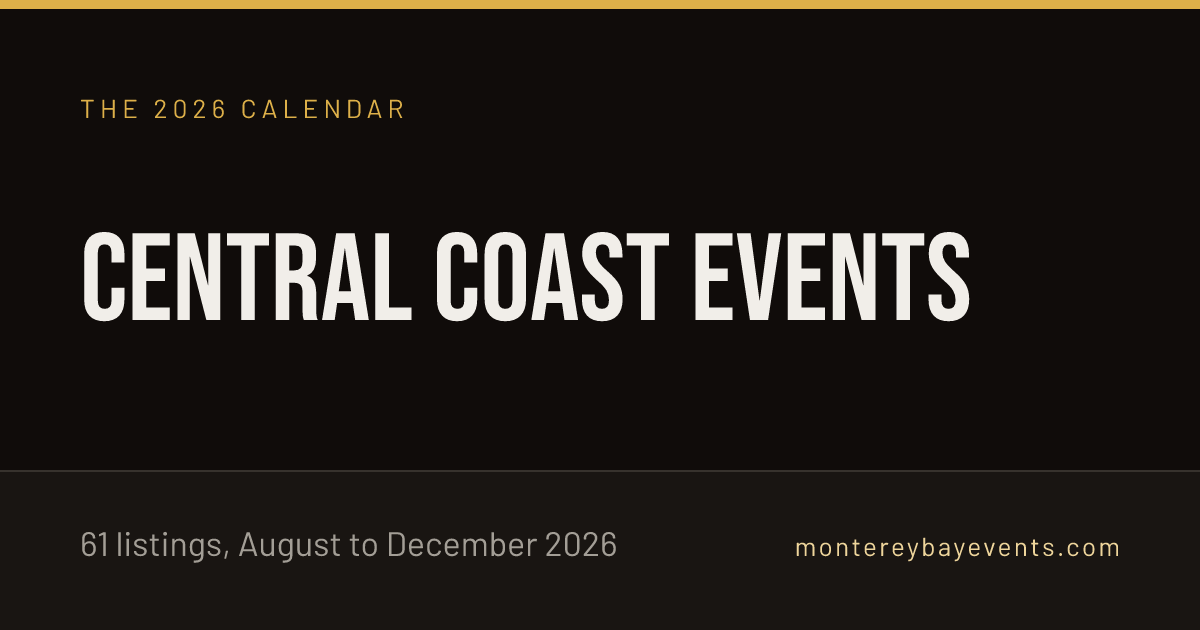
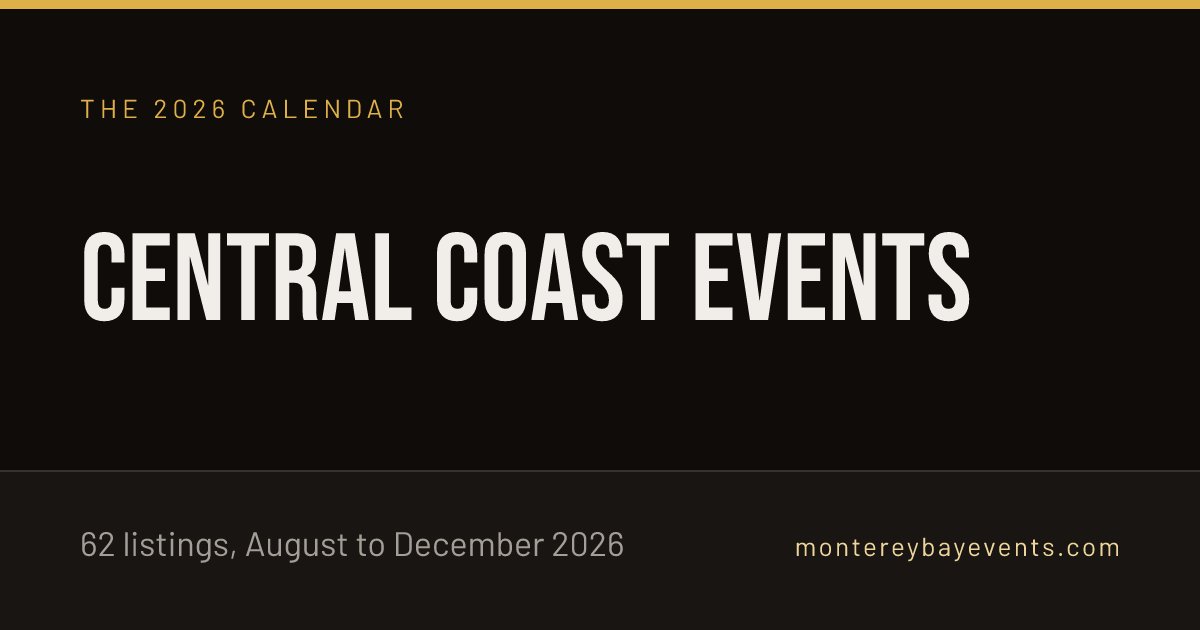
v2.P — Aria Women's Choir: Where Mercy Dwells, first MusicEvent
62nd regional row, sourced from the organiser's email and checked at
ariamonterey.org (3:00pm, 915 Sunset Drive, timed programme ending
4:05pm) and TicketSpice ($25 / $20 / $10 plus fees; Offer floor $10).

RegionalEvent gains five optional fields, absent by default so the
other 58 Event nodes are unchanged: schemaType, doorTime, ticketsUrl,
organizer, performer. Page gets a "Buy tickets" link while upcoming.
November poster and OG cards regenerated.

Changed region(s): [[0.0617, 0.8444, 0.5242, 0.9048]]

diff --git a/src/data/events-2026.ts b/src/data/events-2026.ts
@@ -86,6 +86,31 @@ export type RegionalEvent = {
    */
   startTime?: string;
   endTime?: string;
+  /**
+   * 24-hour `HH:MM`, Pacific — when doors open. Same terms as `startTime`:
+   * emitted as schema.org `doorTime` only when `timesConfidence` is
+   * `"official"`.
+   */
+  doorTime?: string;
+  /**
+   * schema.org subtype for the Event node. Absent means plain `Event`, which
+   * is every row until v2.P. One member because one row needed it; add more
+   * only when a row's organiser material clearly puts it in that type.
+   */
+  schemaType?: "MusicEvent";
+  /**
+   * The organiser's ticketing page, where it differs from `officialWebsite`.
+   * Becomes `offers.url` and a visible "Buy tickets" link. Only meaningful
+   * alongside a ticketed `admission`.
+   */
+  ticketsUrl?: string;
+  /**
+   * Who puts the event on, and who performs. Set only from the organiser's
+   * own material — never inferred from a listing — and emitted as schema.org
+   * `organizer` / `performer`. Absent on every row before v2.P.
+   */
+  organizer?: { type: "PerformingGroup" | "Organization"; name: string; url?: string };
+  performer?: { type: "PerformingGroup" | "Person"; name: string; url?: string }[];
   /** Month hub(s) this event belongs to. More than one only when it spans them. */
   months: MonthKey[];
   /** Human-readable date text from the CSV; empty when no date is confirmed. */
@@ -1459,6 +1484,107 @@ export const regionalEvents: RegionalEvent[] = [
     ],
     description:
       "A half marathon run on a single November Sunday through Monterey and Pacific Grove.",
+  },
+  {
+    // v2.P — added 2026-11-01 from the organiser's own email to the operator,
+    // checked against ariamonterey.org (start time, address, running order)
+    // and the choir's TicketSpice page (the three ticket prices). Not one of
+    // the original Aug–Dec import: it is the first row added after it.
+    slug: "aria-womens-choir-where-mercy-dwells",
+    name: "Aria Women's Choir: Where Mercy Dwells",
+    county: "Monterey",
+    cityText: "Pacific Grove (First United Methodist Church of Pacific Grove)",
+    city: "Pacific Grove",
+    venue: "First United Methodist Church of Pacific Grove",
+    streetAddress: "915 Sunset Drive",
+    postalCode: "93950",
+    months: ["november"],
+    dateText: "November 14, 2026",
+    start: "2026-11-14",
+    times: [
+      { day: "Saturday 14 November", hours: "3:00pm – about 4:05pm (doors 2:30pm)" },
+    ],
+    timesConfidence: "official",
+    startTime: "15:00",
+    endTime: "16:05",
+    doorTime: "14:30",
+    category: "Music / Choral",
+    schemaType: "MusicEvent",
+    officialWebsite: "https://www.ariamonterey.org/dbpage.php?dbase=events&id=348597&pg=view",
+    ticketsUrl: "https://ariamonterey.ticketspice.com/aria-where-mercy-dwells",
+    admission: { kind: "ticketed", from: 10, currency: "USD" },
+    organizer: {
+      type: "PerformingGroup",
+      name: "Aria Women's Choir",
+      url: "https://www.ariamonterey.org/",
+    },
+    performer: [
+      { type: "PerformingGroup", name: "Aria Women's Choir", url: "https://www.ariamonterey.org/" },
+    ],
+    updated: "2026-11-01",
+    hideSources: true,
+    referenceUrls: ["https://ariamonterey.ticketspice.com/aria-where-mercy-dwells"],
+    description:
+      "Aria Women's Choir opens its 15th anniversary season with an afternoon of sacred choral music at the Butterfly Church in Pacific Grove.",
+    metaDescription:
+      "Saturday 14 November 2026, 3pm at the Butterfly Church, Pacific Grove. Tickets $10–$25, the full running order, and what the choir has not published.",
+    intro:
+      "Aria Women's Choir sings Where Mercy Dwells at 3:00pm on Saturday 14 November 2026 at First United Methodist Church of Pacific Grove — the Butterfly Church — at 915 Sunset Drive. Doors open at 2:30pm and the choir's published programme runs 65 minutes with an interval, finishing at about 4:05pm. It opens Aria's 15th anniversary season: an afternoon of sacred choral music on compassion, peace, forgiveness and hope, conducted by Dr. Seán Boulware with collaborative pianist Jon-Mark Hurley. Tickets are $25, $20 for seniors, veterans and military families, and $10 for students and under-18s, bought online through the choir's TicketSpice page.",
+    sections: [
+      {
+        heading: "Tickets: three prices, one kind of seat",
+        body: [
+          "The choir sells three tickets, and all three are general admission — the tiers are about who you are, not where you sit. Adult admission is $25. Seniors aged 65 and over, veterans, and active military and their families pay $20. Students with ID and anyone under 18 pay $10.",
+          "Those are the face prices. TicketSpice adds a booking fee to each ticket at checkout, so the $25 ticket costs $28.97 by the time you pay, the $20 ticket $23.79, and the $10 ticket $13.44.",
+          "Because seating is unreserved, the 2:30pm door time is the one to plan around if you want a particular part of the church. Arriving at three means taking what is left.",
+        ],
+      },
+      {
+        heading: "The running order",
+        body: [
+          "The choir publishes its full programme in order, with timings, which is unusual for a concert listing and lets you see the shape of the afternoon before you go. The first half runs from 3:00pm to about 3:25pm: O Virtus Sapientiæ, Salve Regina, Cantate Domino, I Will Be a Child of Peace, And Can It Be, and Song of Miriam.",
+          "A 15-minute interval follows. The second half runs from about 3:40pm to the close at about 4:05pm: Mangisondele Nkosi Yam, We Are Held, I Will Lift My Eyes, I Choose Love, When the Spirit Says Sing, and Elijah Rock to finish.",
+          "The timings are the choir's own estimate of each piece — four or five minutes apiece — rather than a guarantee, so treat 4:05pm as roughly when it ends rather than a hard stop.",
+        ],
+      },
+      {
+        heading: "What the music is",
+        body: [
+          "The programme moves through several centuries of sacred music written or arranged for women's voices. At the older end are Hildegard von Bingen, the twelfth-century abbess and composer, and the Renaissance masters Palestrina and Monteverdi. The contemporary half draws on choral composers Elaine Hagenberg, Dan Forrest, Susan LaBarr, Mark A. Miller, Rollo Dilworth and Stacey V. Gibbs, with gospel and spirituals among them — Elijah Rock and When the Spirit Says Sing close the afternoon.",
+          "The choir describes the theme as music of peace and praise, struggle and hope, compassion and courage, built around a single question: where does mercy dwell? The answers the programme offers are forgiveness, courage, justice and, in the choir's words, the quiet assurance that we are not alone.",
+          "Dr. Seán Boulware conducts, and Jon-Mark Hurley is the collaborative pianist.",
+        ],
+      },
+      {
+        heading: "What the choir has not published",
+        body: [
+          "Three things a concertgoer might want to know are not on the choir's event page or its ticketing page. It does not say whether tickets will be sold at the door, so buying online is the only route we can confirm. It publishes no parking information for the church. And it says nothing about step-free access or accessible seating.",
+          "If any of those decides whether you go, the choir's event page has its contact details — ask before the day rather than assuming.",
+        ],
+      },
+    ],
+    faq: [
+      {
+        q: "What time does Where Mercy Dwells start?",
+        a: "3:00pm on Saturday 14 November 2026. Doors open at 2:30pm, and the choir's published programme runs 65 minutes including a 15-minute interval, finishing at about 4:05pm.",
+      },
+      {
+        q: "How much are tickets?",
+        a: "$25 for adults, $20 for seniors 65 and over, veterans and active military families, and $10 for students with ID and under-18s. TicketSpice adds a booking fee to each, so you pay $28.97, $23.79 or $13.44. All three are general admission.",
+      },
+      {
+        q: "Where is the concert?",
+        a: "First United Methodist Church of Pacific Grove, known locally as the Butterfly Church, at 915 Sunset Drive, Pacific Grove, CA 93950.",
+      },
+      {
+        q: "Who conducts the choir?",
+        a: "Dr. Seán Boulware conducts Aria Women's Choir, with Jon-Mark Hurley as collaborative pianist.",
+      },
+      {
+        q: "Can I buy tickets at the door?",
+        a: "The choir has not said. Tickets are on sale online through its TicketSpice page, which is the only way to buy that we can confirm.",
+      },
+    ],
   },
   {
     slug: "christmas-in-the-adobes",

diff --git a/src/__tests__/regionalEventSchema.test.js b/src/__tests__/regionalEventSchema.test.js
@@ -38,6 +38,10 @@ const ALLOWED_EVENT_PROPS = new Set([
   'eventAttendanceMode',
   'location',
   'offers',
+  // v2.P — emitted only where the row carries them, from the organiser.
+  'doorTime',
+  'performer',
+  'organizer',
 ]);
 
 const DATE_ONLY = /^\d{4}-\d{2}-\d{2}$/;
@@ -52,17 +56,21 @@ const nodes = regionalEvents
 describe('regional Event JSON-LD', () => {
   it('builds a node for every dated event and none for the undated ones', () => {
     expect(nodes.length).toBe(regionalEvents.filter((e) => e.start).length);
-    expect(nodes.length).toBe(58);
+    expect(nodes.length).toBe(59);
     for (const e of regionalEvents.filter((e) => !e.start)) {
       expect(buildRegionalEventJsonLd(e, SITE), e.name).toBeNull();
     }
   });
 
-  it('emits @context and @type Event', () => {
+  it('emits @context and @type Event, or the subtype the row names', () => {
     for (const { event, ld } of nodes) {
       expect(ld['@context'], event.slug).toBe('https://schema.org');
-      expect(ld['@type'], event.slug).toBe('Event');
+      expect(ld['@type'], event.slug).toBe(event.schemaType ?? 'Event');
     }
+    // v2.P: one subtype, on one row. Widening this is a deliberate act.
+    expect(nodes.filter((n) => n.ld['@type'] !== 'Event').map((n) => n.event.slug)).toEqual([
+      'aria-womens-choir-where-mercy-dwells',
+    ]);
   });
 
   it('uses only real schema.org/Event properties', () => {
@@ -110,9 +118,15 @@ describe('regional Event JSON-LD', () => {
   // set from an organiser's own words, the rule it was really protecting is the
   // one asserted here — an Offer appears if and ONLY if someone checked. A row
   // with no admission data still publishes no price at all.
-  it('publishes an Offer only where admission is sourced, and never an organizer', () => {
+  // "never an organizer" until v2.P; now an organizer appears if and only if
+  // the row carries one from the organiser's own material.
+  it('publishes an Offer only where admission is sourced, and an organizer only where named', () => {
     for (const { event, ld } of nodes) {
-      expect(ld.organizer, event.slug).toBeUndefined();
+      if (!event.organizer) expect(ld.organizer, event.slug).toBeUndefined();
+      if (!event.performer) expect(ld.performer, event.slug).toBeUndefined();
+      if (!(event.timesConfidence === 'official' && event.doorTime)) {
+        expect(ld.doorTime, event.slug).toBeUndefined();
+      }
 
       if (event.admission === undefined) {
         expect(ld.offers, event.slug).toBeUndefined();
@@ -257,5 +271,57 @@ describe('listing ItemList JSON-LD', () => {
       const ld = buildItemListJsonLd(month.events, SITE, href, month.label);
       expect(ld.numberOfItems, month.key).toBeGreaterThan(0);
     }
+  });
+});
+
+// v2.P — the first row added after the Aug–Dec import, and the first with a
+// subtype, a door time, a ticketing URL and a named organiser/performer.
+describe('Aria Women\'s Choir: Where Mercy Dwells (MusicEvent)', () => {
+  const event = regionalEvents.find((e) => e.slug === 'aria-womens-choir-where-mercy-dwells');
+  const ld = buildRegionalEventJsonLd(event, SITE);
+
+  it('is a MusicEvent with organiser-published times in PST', () => {
+    expect(ld['@type']).toBe('MusicEvent');
+    expect(ld.startDate).toBe('2026-11-14T15:00:00-08:00');
+    expect(ld.doorTime).toBe('2026-11-14T14:30:00-08:00');
+    expect(ld.endDate).toBe('2026-11-14T16:05:00-08:00');
+    expect(ld.eventStatus).toBe('https://schema.org/EventScheduled');
+    expect(ld.eventAttendanceMode).toBe('https://schema.org/OfflineEventAttendanceMode');
+    expect(ld.url).toBe(`${SITE}/event/aria-womens-choir-where-mercy-dwells/`);
+  });
+
+  it('locates it at the church with a full PostalAddress', () => {
+    expect(ld.location).toEqual({
+      '@type': 'Place',
+      name: 'First United Methodist Church of Pacific Grove',
+      address: {
+        '@type': 'PostalAddress',
+        streetAddress: '915 Sunset Drive',
+        addressLocality: 'Pacific Grove',
+        addressRegion: 'CA',
+        postalCode: '93950',
+        addressCountry: 'US',
+      },
+    });
+  });
+
+  it('points the Offer at the ticketing page, priced at the cheapest ticket', () => {
+    expect(ld.offers).toEqual({
+      '@type': 'Offer',
+      price: '10',
+      priceCurrency: 'USD',
+      availability: 'https://schema.org/InStock',
+      url: 'https://ariamonterey.ticketspice.com/aria-where-mercy-dwells',
+    });
+  });
+
+  it('names the choir as performer and organizer', () => {
+    const choir = {
+      '@type': 'PerformingGroup',
+      name: "Aria Women's Choir",
+      url: 'https://www.ariamonterey.org/',
+    };
+    expect(ld.performer).toEqual([choir]);
+    expect(ld.organizer).toEqual(choir);
   });
 });

diff --git a/src/lib/regionalEventSchema.ts b/src/lib/regionalEventSchema.ts
@@ -8,11 +8,14 @@
  * nothing about price. The output shape is the same, and both are validated
  * against schema.org/Event in the test suite.
  *
- * Two properties the Car Week builder emits are deliberately absent here:
+ * Two properties the Car Week builder emits are absent by default here:
  *
- *   offers      — this dataset records no admission price, and an Offer with no
+ *   offers      — most rows record no admission price, and an Offer with no
  *                 price says nothing while an Offer with a guessed one is worse.
- *   organizer   — no organizer names are recorded, only websites.
+ *                 Emitted only where `admission` is set (v1.L, v1.Y).
+ *   organizer   — most rows record no organizer name, only a website. Emitted
+ *                 only where `organizer` is set from the organiser's own
+ *                 material (v2.P), along with `performer`.
  *
  * Returns null when the event has no confirmed start date. schema.org requires
  * startDate, so an Event node without one is invalid — the three undated events
@@ -48,7 +51,7 @@ export function isoDateTime(iso: string, time?: string): string {
  */
 function officialTime(
   event: RegionalEvent,
-  field: "startTime" | "endTime",
+  field: "startTime" | "endTime" | "doorTime",
 ): string | undefined {
   return event.timesConfidence === "official" ? event[field] : undefined;
 }
@@ -108,8 +111,13 @@ export function buildRegionalOffer(
     price,
     priceCurrency,
     availability: "https://schema.org/InStock",
-    url: event.officialWebsite ?? canonical,
+    url: event.ticketsUrl ?? event.officialWebsite ?? canonical,
   };
+}
+
+/** A PerformingGroup / Organization / Person node from a row's organiser data. */
+function party(p: { type: string; name: string; url?: string }): JsonLd {
+  return { "@type": p.type, name: p.name, ...(p.url ? { url: p.url } : {}) };
 }
 
 export function buildRegionalEventJsonLd(
@@ -122,7 +130,7 @@ export function buildRegionalEventJsonLd(
 
   return {
     "@context": "https://schema.org",
-    "@type": "Event",
+    "@type": event.schemaType ?? "Event",
     name: event.name,
     ...(event.description ? { description: event.description.slice(0, 300) } : {}),
     url: `${site}/event/${event.slug}/`,
@@ -135,10 +143,15 @@ export function buildRegionalEventJsonLd(
           ),
         }
       : {}),
+    ...(officialTime(event, "doorTime")
+      ? { doorTime: isoDateTime(event.start, officialTime(event, "doorTime")) }
+      : {}),
     eventStatus: "https://schema.org/EventScheduled",
     eventAttendanceMode: "https://schema.org/OfflineEventAttendanceMode",
     location: buildPlace(event),
     ...(offer ? { offers: offer } : {}),
+    ...(event.performer?.length ? { performer: event.performer.map(party) } : {}),
+    ...(event.organizer ? { organizer: party(event.organizer) } : {}),
   };
 }
 

diff --git a/src/__tests__/events2026.test.js b/src/__tests__/events2026.test.js
@@ -97,8 +97,9 @@ function expectedRange(text) {
 }
 
 describe('events-2026 ↔ CSV source of record', () => {
-  it('reads 61 rows from the CSV', () => {
-    expect(csvRows.length).toBe(61);
+  // 61 from the Aug–Dec import, plus Aria (v2.P, 2026-11-01).
+  it('reads 62 rows from the CSV', () => {
+    expect(csvRows.length).toBe(62);
   });
 
   it('carries every CSV row, and no extras', () => {

diff --git a/docs/prd.md b/docs/prd.md
@@ -1,10 +1,10 @@
 ---
 project: montereybayevents.com
 prd_version: 1
-project_version: v2.O
+project_version: v2.P
 status: deployed and serving; GSC verified and sitemap submitted
 owner: Vijo
-last_updated: 2026-10-17
+last_updated: 2026-11-01
 ---
 
 # montereybayevents.com — PRD
@@ -134,6 +134,7 @@ Two-level versioning convention (canonical: `sites/portfolio/AI_AGENTS.md`):
 | **v2.M** | `/monterey-car-week-map/` | Target "monterey car week map". 24 pins in 8 areas (`src/data/carWeekVenues.ts`), coordinates geocoded from OSM via Nominatim with the OSM object recorded per pin; two public streets use the County's 2022 ArcGIS layer for location only. **Which events sit at a pin is derived from `venues.ts`**, so the map cannot disagree with the event pages. 40 of 50 events pinned; 10 with no fixed venue (undisclosed rally start, Tour d'Elegance route, town-only brand houses) listed, never pinned. Key is a sidebar, not an overlay; phone variant drops it. Page: straight-line distance table, every venue by area with event links, day-by-day area spread computed from the 2026 schedule, planning examples incl. Laureles Grade (G20) between Laguna Seca and the Quail. Schema: ImageObject + ItemList of Place (geo) + BreadcrumbList + FAQPage. **Found:** the County's 2022 Car Week layer puts Legends of the Autobahn and Werks Reunion at the wrong golf courses — another reason it is location-only. No drive times anywhere. | ✅ shipped — live (deploy confirmed 2026-10-11) |
 | **v2.N** | `/monterey-events-calendar/` | Target "monterey events calendar". `src/lib/calendar.ts` builds Sunday-first month grids from `events-2026.ts`, shared by the page and the printable posters, so they cannot disagree. Runs > 7 days listed under the grid instead of painted on every day. "Today", past-day shading, "on now and next two weeks", this weekend and the farmers-market-per-day strip are computed at build — safe because the daily rebuild Worker exists (v1.Q's condition). Current month renders first, finished months last. Five printable PNG posters (one per month) + OG card. Distinct from `/events/` (list + filters); they cross-link. Schema: CollectionPage with ItemList mainEntity + 5 ImageObject + BreadcrumbList + FAQPage. **Inbound links for all three (v2.L–N):** footer (site-wide), homepage, `/events/`, all 5 month hubs, every regional event page (calendar anchor; Laguna map where venue is the raceway), every Car Week event page (its pin on the Car Week map; Laguna map for raceway events), Car Week hub, schedule, `/free/`, `/traffic/`, `/laguna-seca/camping/`, both farmers-market pages. **Trap:** the posters and the "on now" text change as the data changes — `make maps` in any commit that edits an event's name or dates, or `maps-check` fails. **Overlap risk with `/events/`** recorded in growth.md. | ✅ shipped — live (deploy confirmed 2026-10-11) |
 | **v2.O** | homepage rebuilt as the regional calendar entry point | Targets "monterey bay events", "monterey events calendar", "monterey county events", "monterey events this weekend". Operator brief 2026-10-16; placed by the operator. **Title and H1 changed on a live indexed page at the operator's direct request** — an exception to the standing rule, not a precedent. Title shortened from the briefed 75 chars to 59 for CHECK_070. Sections, all computed at build from `events-2026.ts` and `farmersMarkets.ts`: this weekend (Fri–Sun window; falls back to the next upcoming when empty), the next 30 days (padded with later events, labelled, when fewer than 10), month hubs from the current month, towns with counts (no town pages exist, so plain text), types (category-string match; only Car Week and farmers markets have pages), six annual events (no 2027 dates in the data except the Pebble Beach Concours, 15 Aug 2027), FAQ, submit CTA (`hello@lamill.io`). JSON-LD: Organization, WebSite (no SearchAction — no site search), ItemList of the listed events, FAQPage built from the visible array. **Free/Paid shown only where `admission` is set**, which is no upcoming row. **Traps:** the data ends 2026-12-31, so from January the weekend and 30-day lists fall back to an empty state; `/monterey-events-calendar/` targets the same "events calendar" query and its 2026-11-02 review should check for cannibalisation | ✅ shipped — live (deploy confirmed 2026-10-17) |
+| **v2.P** | `/event/aria-womens-choir-where-mercy-dwells/` — first row added after the Aug–Dec import, first `MusicEvent` | Operator brief 2026-11-01 from the organiser's own email; operator said to trust it and to pick the rest. Sat 14 Nov 2026, 3:00pm (doors 2:30pm), First United Methodist Church of Pacific Grove (the Butterfly Church), 915 Sunset Drive 93950. (1) **62nd CSV row**, so the `events2026.test.js` pin moved 61 → 62 — the pin exists to catch drift, not to freeze the set; `expected_visitor_level` left empty (it is unsourced judgement and never imported). (2) **Checked beyond the email at the organiser:** ariamonterey.org confirms 3:00pm and the address and publishes a timed running order — 12 pieces, 15-min interval, "Finish time: 4:05pm" — which is the `endTime`. TicketSpice gives the three prices the email did not: $25 adult, $20 senior/veteran/military, $10 student/under-18, each plus a booking fee ($28.97 / $23.79 / $13.44 at checkout). `admission.from` is **10**, the cheapest real gate price, per the v1.Y floor rule. (3) **Five new optional fields on `RegionalEvent`, all absent by default** so the other 58 Event nodes are byte-identical: `schemaType` (`"MusicEvent"`, one member), `doorTime` (official-only, same gate as `startTime`), `ticketsUrl` (becomes `offers.url` and a "Buy tickets" link, hidden once past), `organizer` and `performer` (PerformingGroup, from the organiser only). The schema test's "never an organizer" became "an organizer only where named". (4) **Not published:** the organiser's email (Cloudflare obfuscation turns it into "[email protected]"; v2.O removed visible emails), door sales, parking and accessibility — none are on the organiser's pages, so a section says so. (5) No `image` on the Event node: recommended, not required, and no regional node has one; adding it is a 59-page change. (6) `meta name="keywords"` still renders, as on every event page — v1.Z, not this row. Auto-listed on `/events/`, `/events/november/`, the homepage 30-day list, `/monterey-events-calendar/` and the November poster (`make maps` + `make og` regenerated). No "music" listing exists to join | ✅ shipped — built and tested locally, not yet deployed |
 | **v3.A** | kickoff / decisions lock | no build. GA4 chosen 2026-08-09 over self-hosted Umami. Remaining to lock: create the GA4 property and get its measurement ID; whether consent/cookie banner is in scope for an EU-reachable site; which events are custom (outbound organizer-link clicks, month-hub filter use) versus default pageviews | planned |
 | **v3.B** | instrument the site | GA4 tag on every page via `BaseLayout.astro` (the head is per-page today, so the tag goes in the shared layout, not 11 copies). Measurement ID injected as `VITE_GA_ID` from the Cloudflare Workers env — already the documented pattern in AI_AGENTS.md § Deployment info — so it is not committed. Clears `CHECK_080` | planned |
 | **v3.C** | outbound + intent events | custom GA4 events for organizer-link clicks off `/event/` pages and for `/free/` and month-hub entry, so `docs/growth.md`'s "does `/free/` outperform the schedule page" question is answerable from behaviour rather than inference | planned |
